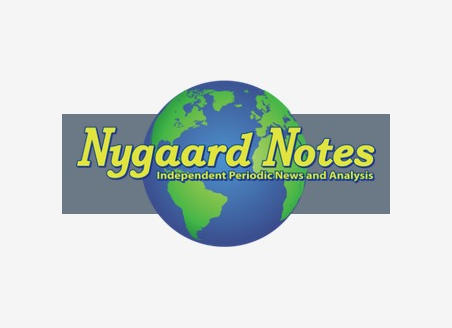
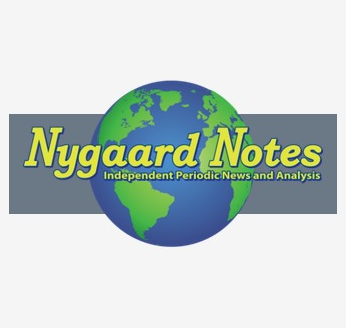
fixed breaking on firefox, resized nygn image

Changed region(s): [[0.0289, 0.2439, 0.9827, 0.7622], [0.5202, 0.7317, 0.578, 0.7622], [0.4624, 0.6402, 0.4913, 0.6707]]

diff --git a/_sass/_portfolio.scss b/_sass/_portfolio.scss
@@ -6,8 +6,6 @@
 .website.tile {
     width: 350px;
     display: flex;
-    justify-content: center;
-    align-items: center;
     height: 260px;
     background-color:$trans-white;
     margin-bottom: 12px;
@@ -23,8 +21,9 @@
 
 .siteImage {
   height: 236px;
-  max-width: 326px;
+  width: 236px;
   position: absolute;
+  margin: 15px 57px;
 }
 
 div.title, div.title > a {
